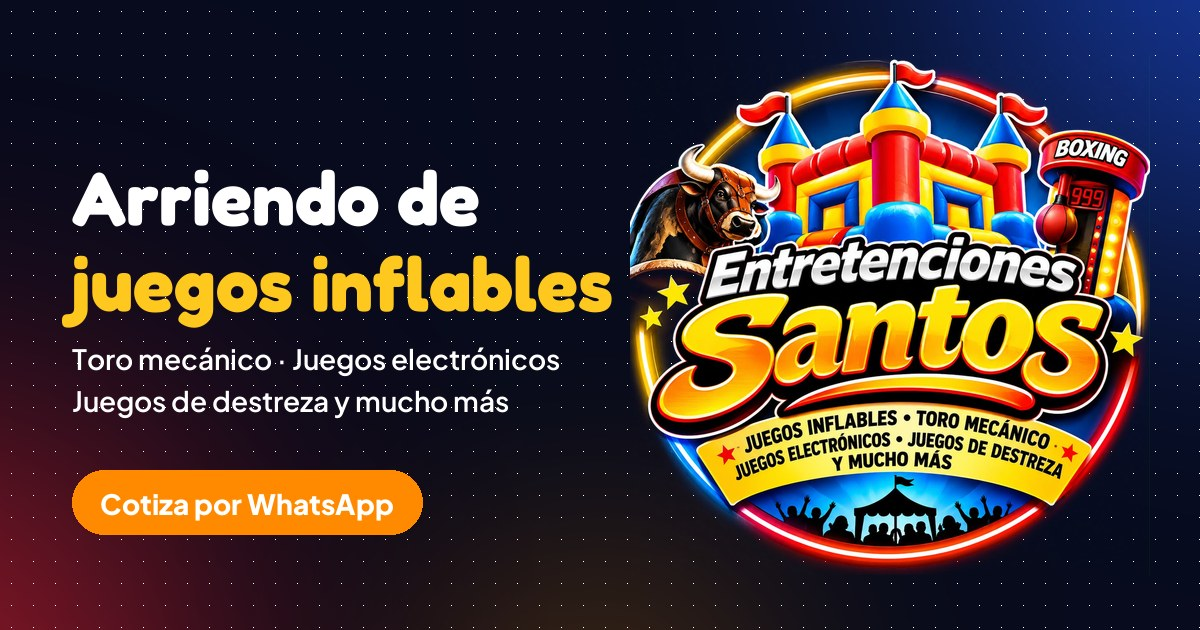
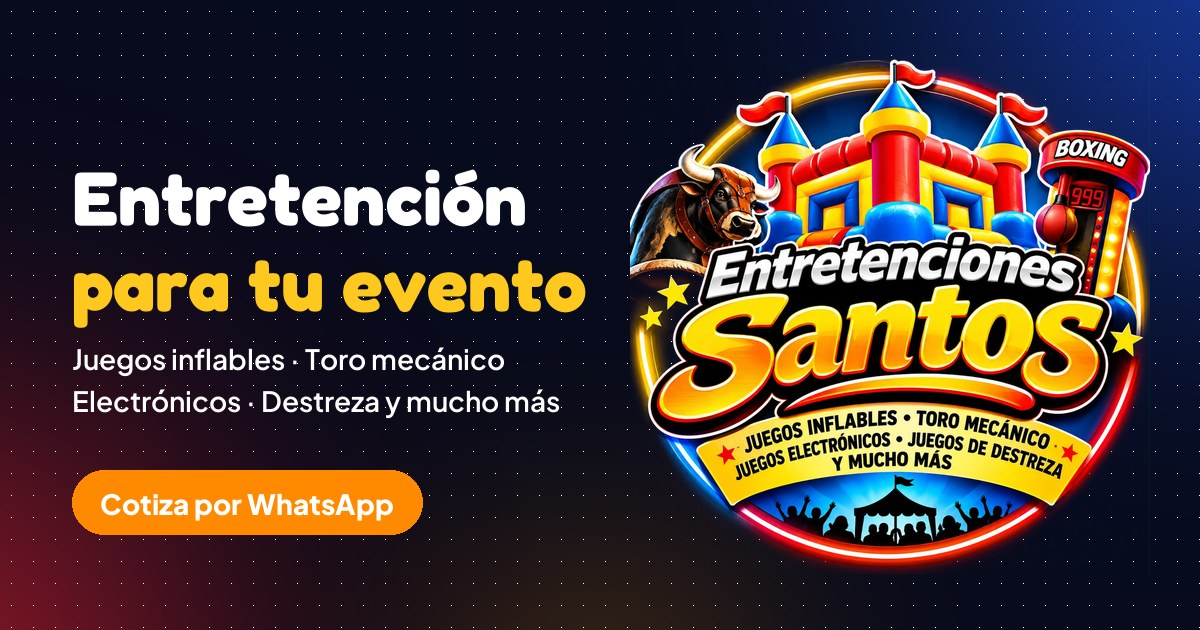
Posicionamiento como empresa de entretención para eventos (portada, SEO, redes e IAs)

Changed region(s): [[0.0308, 0.3921, 0.5242, 0.6635], [0.0617, 0.2714, 0.4625, 0.3619]]

diff --git a/app/static/css/site.css b/app/static/css/site.css
@@ -74,7 +74,7 @@
 .hero__img{position:absolute;margin:0;border-radius:var(--radius-lg);overflow:hidden;box-shadow:0 30px 60px -20px rgba(0,0,0,.5);border:6px solid rgba(255,255,255,.95);background:#fff;animation:float 7s ease-in-out infinite}
 .hero__img img{width:100%;height:100%;object-fit:cover}
 .hero__img figcaption{position:absolute;left:10px;right:10px;bottom:10px;display:flex;justify-content:space-between;gap:.5rem;padding:.5rem .75rem;border-radius:12px;background:rgba(255,255,255,.95);color:var(--ink);font-size:.8rem;font-weight:600}
-.hero__img figcaption b{color:var(--primary)}
+.hero__img figcaption b{white-space:nowrap;color:var(--primary)}
 .hero__img--1{width:62%;aspect-ratio:4/3;top:0;right:0;transform:rotate(3deg)}
 /* Las dos de abajo son iguales y en espejo: ambas se apoyan en el borde inferior de la grande */
 .hero__img--2,.hero__img--3{width:51%;aspect-ratio:4/3;bottom:10px}

diff --git a/app/seed/data.py b/app/seed/data.py
@@ -7,10 +7,11 @@ aparece una clave de ajuste nueva). Después todo se edita desde /admin.
 AJUSTES = {
     "nombre": "Entretenciones Santos",
     "razon_social": "Entretenciones Santos SpA",
-    "slogan": "Arriendo de juegos inflables para eventos",
-    "hero_titulo": "Juegos inflables que hacen tu evento *inolvidable*",
-    "hero_subtitulo": "Inflables, juegos mecánicos, de salón, típicos, de agua y mucho más. Despacho, "
-                      "instalación y retiro incluidos. Arma tu cotización en segundos y recíbela por WhatsApp.",
+    "slogan": "Entretención para cumpleaños, colegios y empresas",
+    "hero_titulo": "Entretención que hace tu evento *inolvidable*",
+    "hero_subtitulo": "Juegos inflables, toro mecánico, juegos electrónicos, de destreza, de salón, típicos y de "
+                      "agua, entre otros. Despacho, instalación y retiro incluidos. Arma tu cotización en "
+                      "segundos y recíbela por WhatsApp.",
     "whatsapp": "56912345678",
     "telefono": "+56 9 1234 5678",
     "email": "contacto@entretencionessantos.cl",
@@ -20,6 +21,19 @@ AJUSTES = {
     "horario": "Lunes a domingo, 9:00 a 21:00",
     # Texto que acompaña a todos los precios (solo texto, no se calcula nada)
     "precio_sufijo": "+ IVA",
+}
+
+# Textos de ejemplo de versiones anteriores. Si la base todavía tiene uno de estos (nadie lo
+# editó en el admin), se reemplaza por el valor actual de AJUSTES al iniciar.
+TEXTOS_ANTERIORES = {
+    "slogan": ["Arriendo de juegos inflables para eventos"],
+    "hero_titulo": ["Juegos inflables que hacen tu evento *inolvidable*"],
+    "hero_subtitulo": [
+        "Castillos, toboganes, acuáticos y mucho más. Despacho, instalación y retiro incluidos. "
+        "Arma tu cotización en segundos y recíbela por WhatsApp.",
+        "Inflables, juegos mecánicos, de salón, típicos, de agua y mucho más. Despacho, instalación y "
+        "retiro incluidos. Arma tu cotización en segundos y recíbela por WhatsApp.",
+    ],
 }
 
 # Bloques de contenido de la portada (editables en /admin/contenido)

diff --git a/app/seo_config.py b/app/seo_config.py
@@ -17,11 +17,13 @@ def _token(nombre):
 
 SEO = {
     # Título de la portada (pestaña del navegador y resultado de Google)
-    "seo_titulo": "Arriendo de juegos inflables en Santiago",
+    "seo_titulo": "Entretención para eventos y juegos inflables en Santiago",
 
     # Lo que la gente busca. Primero lo más importante.
     "seo_palabras_clave": ", ".join([
+        "entretención para eventos", "arriendo de entretenciones", "entretención para cumpleaños",
         "arriendo de juegos inflables", "juegos inflables", "castillos inflables", "toboganes inflables",
+        "juegos de destreza",
         "juegos mecánicos", "juegos mecanizados", "toro mecánico", "reloj derribador",
         "juegos interactivos", "zona infantil", "piscina de pelotas",
         "juegos electrónicos", "simulador de carreras", "máquina de baile",
@@ -33,8 +35,8 @@ SEO = {
 
     # Descripción para Google y redes (ideal: menos de 160 caracteres)
     "seo_descripcion": (
-        "Arriendo de juegos inflables, mecánicos, interactivos, electrónicos, de salón, "
-        "típicos y de agua para cumpleaños y eventos en Santiago. Instalación incluida."
+        "Entretención para eventos en Santiago: juegos inflables, toro mecánico, electrónicos, "
+        "de destreza, de salón, típicos y de agua, entre otros. Instalación incluida."
     ),
 
     # Ubicación (títulos "Arriendo de X en {ciudad}" y dirección en Schema.org)

diff --git a/scripts/generar_marca.py b/scripts/generar_marca.py
@@ -117,9 +117,9 @@ def tarjeta_por_defecto(fondo, logo):
     lienzo.alpha_composite(tam(logo, 520), (630, 55))
     d = ImageDraw.Draw(lienzo)
     titulo = _fuente("Fredoka", "Bold", 76)
-    d.text((72, 150), "Arriendo de", font=titulo, fill="white")
-    d.text((72, 236), "juegos inflables", font=titulo, fill=AMARILLO)
-    d.text((72, 340), "Toro mecánico · Juegos electrónicos\nJuegos de destreza y mucho más",
+    d.text((72, 150), "Entretención", font=titulo, fill="white")
+    d.text((72, 236), "para tu evento", font=titulo, fill=AMARILLO)
+    d.text((72, 340), "Juegos inflables · Toro mecánico\nElectrónicos · Destreza y mucho más",
            font=_fuente("PlusJakartaSans", "SemiBold", 28), fill=(255, 255, 255, 220), spacing=12)
     boton = _fuente("PlusJakartaSans", "ExtraBold", 28)
     texto = "Cotiza por WhatsApp"

diff --git a/app/seed/__init__.py b/app/seed/__init__.py
@@ -49,11 +49,14 @@ def _usuarios():
 
 
 def _ajustes():
-    """Crea las claves nuevas y elimina las que ya no existen (p. ej. SEO, que pasó a seo_config)."""
+    """Crea las claves nuevas, elimina las que ya no existen (p. ej. SEO, que pasó a seo_config) y
+    actualiza los textos que siguen siendo de ejemplo de una versión anterior (nunca los editados)."""
     existentes = {a.clave: a for a in Ajuste.query.all()}
     for clave, valor in data.AJUSTES.items():
         if clave not in existentes:
             db.session.add(Ajuste(clave=clave, valor=valor))
+        elif existentes[clave].valor in data.TEXTOS_ANTERIORES.get(clave, ()):
+            existentes[clave].valor = valor
     for clave, ajuste in existentes.items():
         if clave not in data.AJUSTES:
             db.session.delete(ajuste)

diff --git a/app/services/seo.py b/app/services/seo.py
@@ -33,6 +33,7 @@ def negocio():
         "name": n["nombre"],
         "legalName": n["razon_social"] or None,
         "description": descripcion_negocio(),
+        "slogan": n["slogan"] or None,
         "url": _abs("/"),
         "logo": _abs(url_for("static", filename="img/icon-512.png")),
         "image": _abs(url_for("static", filename="img/og-default.jpg")),
